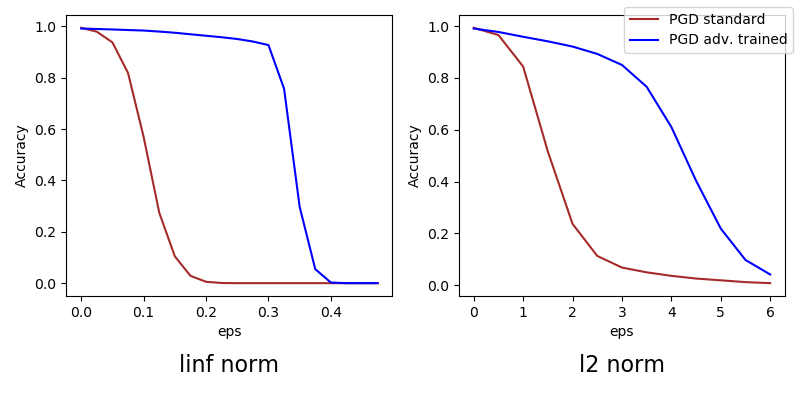
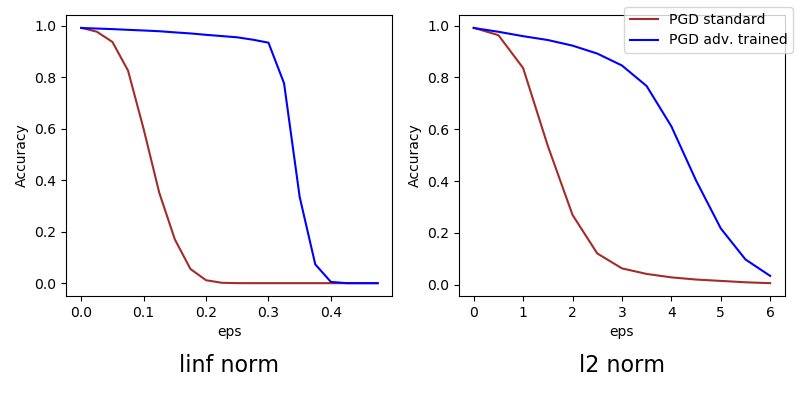
bugfix

diff --git a/adversary.py b/adversary.py
@@ -169,6 +169,11 @@ class PGD(Adversary):
                 best,
                 cur,
             )
+            best_loss = torch.where(
+                (best_loss > loss),
+                best_loss,
+                loss,
+            )
         return best
 
 class CWConfig(PGDConfig):

diff --git a/experiments/results/results.md b/experiments/results/results.md
@@ -67,12 +67,13 @@ higher.
 
 TODO:
 
-* Our accuracy numbers for restarts=20 seem wrong, probably a bug.
-* I don't understand the attack they labeled "Targetted", I can't seem
+* I don't understand the attack they labeled "Targeted", I can't seem
   to find where they describe it in the paper.
 * I don't know what to set the convidence parameter to for CW (for CW+
   they specify 50).  I ended up going with 20 (see comments in
   exp3.py).
+* Why are our accuracy numbers consistently a little higher?  Seems
+  odd, seems true over multiple runs.  Might be nothing.
 
 # Experiment 4 (Figure 6):
 

diff --git a/README.md b/README.md
@@ -1,7 +1,5 @@
 ## TODO
 
-* Our PGD-with-restarts seems like is has a bug.
-
 * Add a requirements file.
 
 * Add lock-holding for the training cache so experiments can be run in
